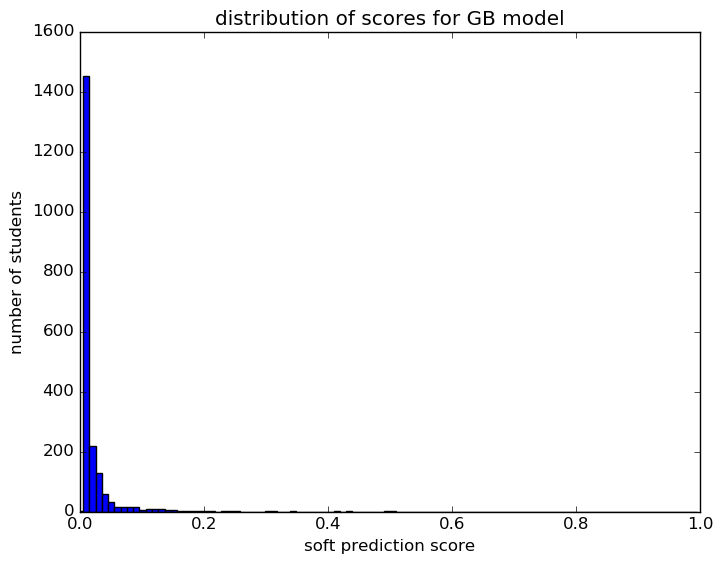
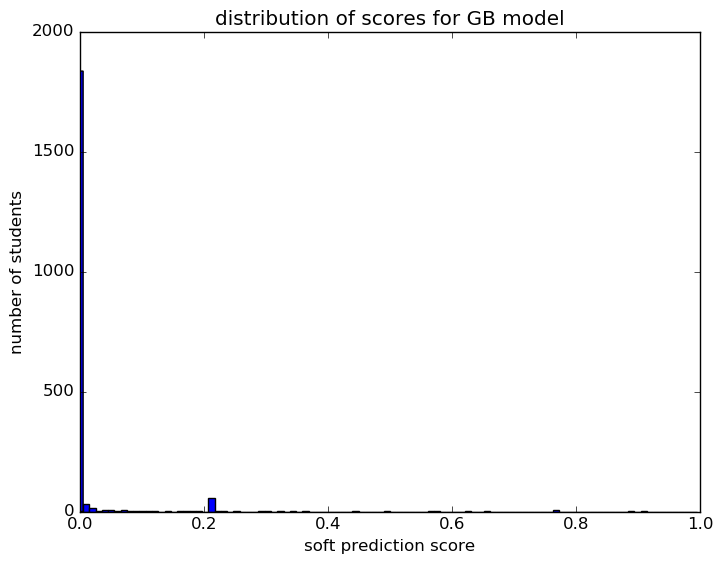
model outputs: md, png

Changed region(s): [[0.0304, 0.1206, 0.2434, 0.9344], [0.0304, 0.0301, 0.1217, 0.0603], [0.2739, 0.8741, 0.3043, 0.9043]]

diff --git a/Reports/wk_G10_onlySNP_DT.md b/Reports/wk_G10_onlySNP_DT.md
@@ -9,35 +9,35 @@ weekly update Grade 10 model (xc)
 * train cohorts: 2008, 2009, 2010
 	 * 96 postive examples, 3046 negative examples
 * cross-validation scheme: leave cohort out
-	 * searching min_samples_split in 2, 5, 10
-	 * chose min_samples_split = 2
 	 * searching criterion in gini, entropy
 	 * chose criterion = gini
-	 * searching max_depth in 1, 5, 10, 20, 50, 100
-	 * chose max_depth = 1
+	 * searching min_samples_split in 2, 5, 10
+	 * chose min_samples_split = 2
 	 * searching max_features in sqrt, log2
 	 * chose max_features = sqrt
+	 * searching max_depth in 1, 5, 10, 20, 50, 100
+	 * chose max_depth = 1
 	 * using custom_recall_15
 * imputation strategy: median plus dummies
 * scaling strategy: robust
 
 ### Features Used
+* snapshots
+	 * district_gr_9
+	 * limited_english_gr_9
+	 * days_absent_gr_9
+	 * iss_gr_9
+	 * discipline_incidents_gr_9
+	 * oss_gr_9
+	 * disability_gr_9
+	 * days_absent_unexcused_gr_9
+	 * gifted_gr_9
+	 * special_ed_gr_9
+	 * status_gr_9
+	 * disadvantagement_gr_9
 * demographics
 	 * ethnicity
 	 * gender
-* snapshots
-	 * discipline_incidents_gr_9
-	 * disadvantagement_gr_9
-	 * days_absent_unexcused_gr_9
-	 * district_gr_9
-	 * iss_gr_9
-	 * disability_gr_9
-	 * special_ed_gr_9
-	 * status_gr_9
-	 * limited_english_gr_9
-	 * oss_gr_9
-	 * gifted_gr_9
-	 * days_absent_gr_9
 
 ### Performance Metrics
-on average, model run in 0.04 seconds (72 times) <br/>precision on top 15%: 0.06371 <br/>precision on top 10%: 0.06371 <br/>precision on top 5%: 0.06371 <br/>recall on top 15%: 1.0 <br/>recall on top 10%: 1.0 <br/>recall on top 5%: 1.0 <br/>AUC value is: 0.5123 <br/>top features: status_gr_9_inactive (1.0), ethnicity_A (0.0), ethnicity_B (0.0)
+on average, model run in 0.04 seconds (72 times) <br/>precision on top 15%: 0.06371 <br/>precision on top 10%: 0.06371 <br/>precision on top 5%: 0.06371 <br/>recall on top 15%: 1.0 <br/>recall on top 10%: 1.0 <br/>recall on top 5%: 1.0 <br/>AUC value is: 0.5075 <br/>top features: status_gr_9_esc (1.0), district_gr_9_Coshocton (0.0), district_gr_9_Crooksville (0.0)

diff --git a/Reports/wk_G10_onlySNP_SVM.md b/Reports/wk_G10_onlySNP_SVM.md
@@ -9,31 +9,31 @@ weekly update Grade 10 model (xc)
 * train cohorts: 2008, 2009, 2010
 	 * 96 postive examples, 3046 negative examples
 * cross-validation scheme: leave cohort out
-	 * searching kernel in linear
-	 * chose kernel = linear
 	 * searching C in 0.0001, 0.001, 0.01, 0.1, 1, 10
 	 * chose C = 0.0001
+	 * searching kernel in linear
+	 * chose kernel = linear
 	 * using custom_recall_15
 * imputation strategy: median plus dummies
 * scaling strategy: robust
 
 ### Features Used
+* snapshots
+	 * district_gr_9
+	 * limited_english_gr_9
+	 * days_absent_gr_9
+	 * iss_gr_9
+	 * discipline_incidents_gr_9
+	 * oss_gr_9
+	 * disability_gr_9
+	 * days_absent_unexcused_gr_9
+	 * gifted_gr_9
+	 * special_ed_gr_9
+	 * status_gr_9
+	 * disadvantagement_gr_9
 * demographics
 	 * ethnicity
 	 * gender
-* snapshots
-	 * discipline_incidents_gr_9
-	 * disadvantagement_gr_9
-	 * days_absent_unexcused_gr_9
-	 * district_gr_9
-	 * iss_gr_9
-	 * disability_gr_9
-	 * special_ed_gr_9
-	 * status_gr_9
-	 * limited_english_gr_9
-	 * oss_gr_9
-	 * gifted_gr_9
-	 * days_absent_gr_9
 
 ### Performance Metrics
-on average, model run in 0.95 seconds (6 times) <br/>precision on top 15%: 0.1623 <br/>precision on top 10%: 0.1923 <br/>precision on top 5%: 0.2673 <br/>recall on top 15%: 0.3828 <br/>recall on top 10%: 0.3125 <br/>recall on top 5%: 0.2109 <br/>AUC value is: 0.6547 <br/>top features: status_gr_9_esc (0.00013), disadvantagement_gr_9_academic (0.0001), disability_gr_9_other major (0.0001)
+on average, model run in 0.94 seconds (6 times) <br/>precision on top 15%: 0.1623 <br/>precision on top 10%: 0.1923 <br/>precision on top 5%: 0.2673 <br/>recall on top 15%: 0.3828 <br/>recall on top 10%: 0.3125 <br/>recall on top 5%: 0.2109 <br/>AUC value is: 0.6547 <br/>top features: status_gr_9_esc (0.00013), disability_gr_9_other major (0.0001), disadvantagement_gr_9_academic (0.0001)

diff --git a/Reports/wk_G10_onlySNP_GB.md b/Reports/wk_G10_onlySNP_GB.md
@@ -11,33 +11,33 @@ weekly update Grade 10 model (xc)
 * cross-validation scheme: leave cohort out
 	 * searching learning_rate in 0.01
 	 * chose learning_rate = 0.01
-	 * searching max_depth in 10, 50
-	 * chose max_depth = 10
-	 * searching n_estimators in 100, 500
-	 * chose n_estimators = 100
-	 * searching subsample in 0.5, 1.0
+	 * searching subsample in 0.5
 	 * chose subsample = 0.5
+	 * searching n_estimators in 500
+	 * chose n_estimators = 500
+	 * searching max_depth in 30
+	 * chose max_depth = 30
 	 * using custom_recall_15
 * imputation strategy: median plus dummies
 * scaling strategy: robust
 
 ### Features Used
+* snapshots
+	 * district_gr_9
+	 * limited_english_gr_9
+	 * days_absent_gr_9
+	 * iss_gr_9
+	 * discipline_incidents_gr_9
+	 * oss_gr_9
+	 * disability_gr_9
+	 * days_absent_unexcused_gr_9
+	 * gifted_gr_9
+	 * special_ed_gr_9
+	 * status_gr_9
+	 * disadvantagement_gr_9
 * demographics
 	 * ethnicity
 	 * gender
-* snapshots
-	 * discipline_incidents_gr_9
-	 * disadvantagement_gr_9
-	 * days_absent_unexcused_gr_9
-	 * district_gr_9
-	 * iss_gr_9
-	 * disability_gr_9
-	 * special_ed_gr_9
-	 * status_gr_9
-	 * limited_english_gr_9
-	 * oss_gr_9
-	 * gifted_gr_9
-	 * days_absent_gr_9
 
 ### Performance Metrics
-on average, model run in 30.17 seconds (8 times) <br/>precision on top 15%: 0.1333 <br/>precision on top 10%: 0.1393 <br/>precision on top 5%: 0.1881 <br/>recall on top 15%: 0.3438 <br/>recall on top 10%: 0.2188 <br/>recall on top 5%: 0.1484 <br/>AUC value is: 0.6862 <br/>
+on average, model run in 103.67 seconds (1 times) <br/>precision on top 15%: 0.1192 <br/>precision on top 10%: 0.1045 <br/>precision on top 5%: 0.09901 <br/>recall on top 15%: 0.2812 <br/>recall on top 10%: 0.1641 <br/>recall on top 5%: 0.07812 <br/>AUC value is: 0.6784 <br/>

diff --git a/Reports/wk_G10_onlySNP_KNN.md b/Reports/wk_G10_onlySNP_KNN.md
@@ -11,31 +11,31 @@ weekly update Grade 10 model (xc)
 * cross-validation scheme: leave cohort out
 	 * searching algorithm in auto, ball_tree, kd_tree
 	 * chose algorithm = auto
+	 * searching n_neighbors in 1, 5, 10, 25, 50
+	 * chose n_neighbors = 1
 	 * searching weights in uniform, distance
 	 * chose weights = uniform
-	 * searching n_neighbors in 1, 5, 10, 25, 50, 100
-	 * chose n_neighbors = 1
 	 * using custom_recall_15
 * imputation strategy: median plus dummies
 * scaling strategy: robust
 
 ### Features Used
+* snapshots
+	 * district_gr_9
+	 * limited_english_gr_9
+	 * days_absent_gr_9
+	 * iss_gr_9
+	 * discipline_incidents_gr_9
+	 * oss_gr_9
+	 * disability_gr_9
+	 * days_absent_unexcused_gr_9
+	 * gifted_gr_9
+	 * special_ed_gr_9
+	 * status_gr_9
+	 * disadvantagement_gr_9
 * demographics
 	 * ethnicity
 	 * gender
-* snapshots
-	 * discipline_incidents_gr_9
-	 * disadvantagement_gr_9
-	 * days_absent_unexcused_gr_9
-	 * district_gr_9
-	 * iss_gr_9
-	 * disability_gr_9
-	 * special_ed_gr_9
-	 * status_gr_9
-	 * limited_english_gr_9
-	 * oss_gr_9
-	 * gifted_gr_9
-	 * days_absent_gr_9
 
 ### Performance Metrics
-on average, model run in 0.79 seconds (36 times) <br/>precision on top 15%: 0.06371 <br/>precision on top 10%: 0.06371 <br/>precision on top 5%: 0.06371 <br/>recall on top 15%: 1.0 <br/>recall on top 10%: 1.0 <br/>recall on top 5%: 1.0 <br/>AUC value is: 0.5216 <br/>
+on average, model run in 0.69 seconds (30 times) <br/>precision on top 15%: 0.06371 <br/>precision on top 10%: 0.06371 <br/>precision on top 5%: 0.06371 <br/>recall on top 15%: 1.0 <br/>recall on top 10%: 1.0 <br/>recall on top 5%: 1.0 <br/>AUC value is: 0.5216 <br/>

diff --git a/Reports/wk_G10_onlySNP_RF.md b/Reports/wk_G10_onlySNP_RF.md
@@ -13,8 +13,8 @@ weekly update Grade 10 model (xc)
 	 * chose min_samples_split = 5
 	 * searching max_features in sqrt
 	 * chose max_features = sqrt
-	 * searching n_estimators in 100, 500
-	 * chose n_estimators = 100
+	 * searching n_estimators in 500
+	 * chose n_estimators = 500
 	 * searching max_depth in 10, 50
 	 * chose max_depth = 10
 	 * using custom_recall_15
@@ -22,22 +22,22 @@ weekly update Grade 10 model (xc)
 * scaling strategy: robust
 
 ### Features Used
+* snapshots
+	 * district_gr_9
+	 * limited_english_gr_9
+	 * days_absent_gr_9
+	 * iss_gr_9
+	 * discipline_incidents_gr_9
+	 * oss_gr_9
+	 * disability_gr_9
+	 * days_absent_unexcused_gr_9
+	 * gifted_gr_9
+	 * special_ed_gr_9
+	 * status_gr_9
+	 * disadvantagement_gr_9
 * demographics
 	 * ethnicity
 	 * gender
-* snapshots
-	 * discipline_incidents_gr_9
-	 * disadvantagement_gr_9
-	 * days_absent_unexcused_gr_9
-	 * district_gr_9
-	 * iss_gr_9
-	 * disability_gr_9
-	 * special_ed_gr_9
-	 * status_gr_9
-	 * limited_english_gr_9
-	 * oss_gr_9
-	 * gifted_gr_9
-	 * days_absent_gr_9
 
 ### Performance Metrics
-on average, model run in 3.72 seconds (8 times) <br/>precision on top 15%: 0.1954 <br/>precision on top 10%: 0.199 <br/>precision on top 5%: 0.2376 <br/>recall on top 15%: 0.4609 <br/>recall on top 10%: 0.3125 <br/>recall on top 5%: 0.1875 <br/>AUC value is: 0.749 <br/>
+on average, model run in 6.47 seconds (4 times) <br/>precision on top 15%: 0.1954 <br/>precision on top 10%: 0.2139 <br/>precision on top 5%: 0.2376 <br/>recall on top 15%: 0.4609 <br/>recall on top 10%: 0.3359 <br/>recall on top 5%: 0.1875 <br/>AUC value is: 0.7497 <br/>

diff --git a/Reports/wk_G10_onlySNP_logit.md b/Reports/wk_G10_onlySNP_logit.md
@@ -18,22 +18,22 @@ weekly update Grade 10 model (xc)
 * scaling strategy: robust
 
 ### Features Used
+* snapshots
+	 * district_gr_9
+	 * limited_english_gr_9
+	 * days_absent_gr_9
+	 * iss_gr_9
+	 * discipline_incidents_gr_9
+	 * oss_gr_9
+	 * disability_gr_9
+	 * days_absent_unexcused_gr_9
+	 * gifted_gr_9
+	 * special_ed_gr_9
+	 * status_gr_9
+	 * disadvantagement_gr_9
 * demographics
 	 * ethnicity
 	 * gender
-* snapshots
-	 * discipline_incidents_gr_9
-	 * disadvantagement_gr_9
-	 * days_absent_unexcused_gr_9
-	 * district_gr_9
-	 * iss_gr_9
-	 * disability_gr_9
-	 * special_ed_gr_9
-	 * status_gr_9
-	 * limited_english_gr_9
-	 * oss_gr_9
-	 * gifted_gr_9
-	 * days_absent_gr_9
 
 ### Performance Metrics
-on average, model run in 0.06 seconds (18 times) <br/>precision on top 15%: 0.06371 <br/>precision on top 10%: 0.06371 <br/>precision on top 5%: 0.06371 <br/>recall on top 15%: 1.0 <br/>recall on top 10%: 1.0 <br/>recall on top 5%: 1.0 <br/>AUC value is: 0.5 <br/>top features: ethnicity_A (0.0), ethnicity_B (0.0), ethnicity_H (0.0)
+on average, model run in 0.06 seconds (18 times) <br/>precision on top 15%: 0.06371 <br/>precision on top 10%: 0.06371 <br/>precision on top 5%: 0.06371 <br/>recall on top 15%: 1.0 <br/>recall on top 10%: 1.0 <br/>recall on top 5%: 1.0 <br/>AUC value is: 0.5 <br/>top features: district_gr_9_Coshocton (0.0), district_gr_9_Crooksville (0.0), district_gr_9_East Muskingum (0.0)
